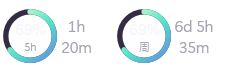
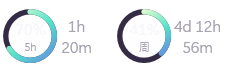
docs: match gallery reference values (#10)

diff --git a/tests/CodexUsageBar.App.Tests/WidgetRenderTests.cs b/tests/CodexUsageBar.App.Tests/WidgetRenderTests.cs
@@ -143,12 +143,13 @@ public sealed class WidgetRenderTests
     {
         const int dpi = 144;
         var window = CreateWindow(
-            percent: 69,
+            percent: 70,
             dpi,
             widthDip: 168,
             fiveHourReset: "1h 20m",
-            weeklyReset: "6d 5h 35m",
-            themeFile);
+            weeklyReset: "4d 12h 56m",
+            themeFile,
+            weeklyPercent: 41);
 
         try
         {
@@ -159,7 +160,13 @@ public sealed class WidgetRenderTests
                 .ToArray();
             Assert.Equal(2, resetTexts.Length);
             Assert.Equal("1h 20m", NormalizeLineBreak(resetTexts[0].Text));
-            Assert.Equal("6d 5h 35m", NormalizeLineBreak(resetTexts[1].Text));
+            Assert.Equal("4d 12h 56m", NormalizeLineBreak(resetTexts[1].Text));
+            Assert.Contains(
+                FindVisualChildren<TextBlock>(window),
+                text => text.Text == "70%");
+            Assert.Contains(
+                FindVisualChildren<TextBlock>(window),
+                text => text.Text == "41%");
             Assert.All(
                 FindVisualChildren<TextBlock>(window),
                 text => Assert.False(IsTextClipped(text), $"Clipped text: {text.Text}"));
@@ -301,11 +308,12 @@ public sealed class WidgetRenderTests
         double widthDip = 168,
         string fiveHourReset = "00:35",
         string weeklyReset = "周五 18:20",
-        string themeFile = "QuotaTheme.xaml")
+        string themeFile = "QuotaTheme.xaml",
+        int? weeklyPercent = null)
     {
         var display = new WidgetDisplayModel(
             new QuotaDisplayWindow($"{percent}%", "5h", fiveHourReset, 1),
-            new QuotaDisplayWindow($"{percent}%", "周", weeklyReset, 1),
+            new QuotaDisplayWindow($"{weeklyPercent ?? percent}%", "周", weeklyReset, 1),
             "quota details",
             IsRefreshing: false,
             IsStale: false);

diff --git a/README.md b/README.md
@@ -21,7 +21,7 @@
 ## 主题预览
 
 以下图片由真实 WPF 控件在 150% DPI 下使用示例数据确定性渲染，不是
-Windows Shell 实机截图。时间采用当前的剩余时长格式，例如 `6d 5h 35m`。
+Windows Shell 实机截图。时间采用当前的剩余时长格式，例如 `4d 12h 56m`。
 
 <table>
   <tr>

diff --git a/README.en.md b/README.en.md
@@ -22,7 +22,7 @@
 
 These images are deterministic renders of the real WPF widget at 150% DPI with
 sample values, not live Windows Shell screenshots. Reset times use the current
-remaining-duration format, such as `6d 5h 35m`.
+remaining-duration format, such as `4d 12h 56m`.
 
 <table>
   <tr>
